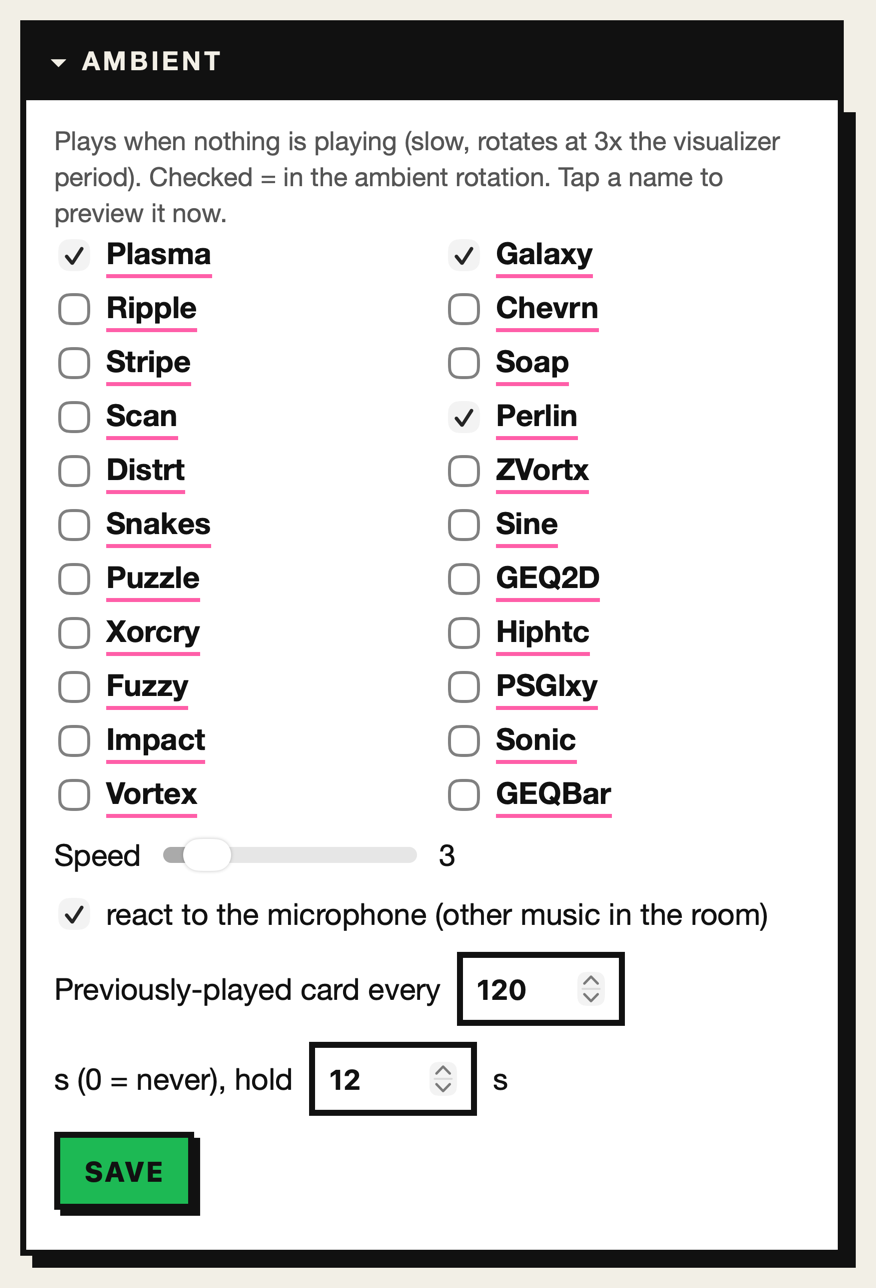
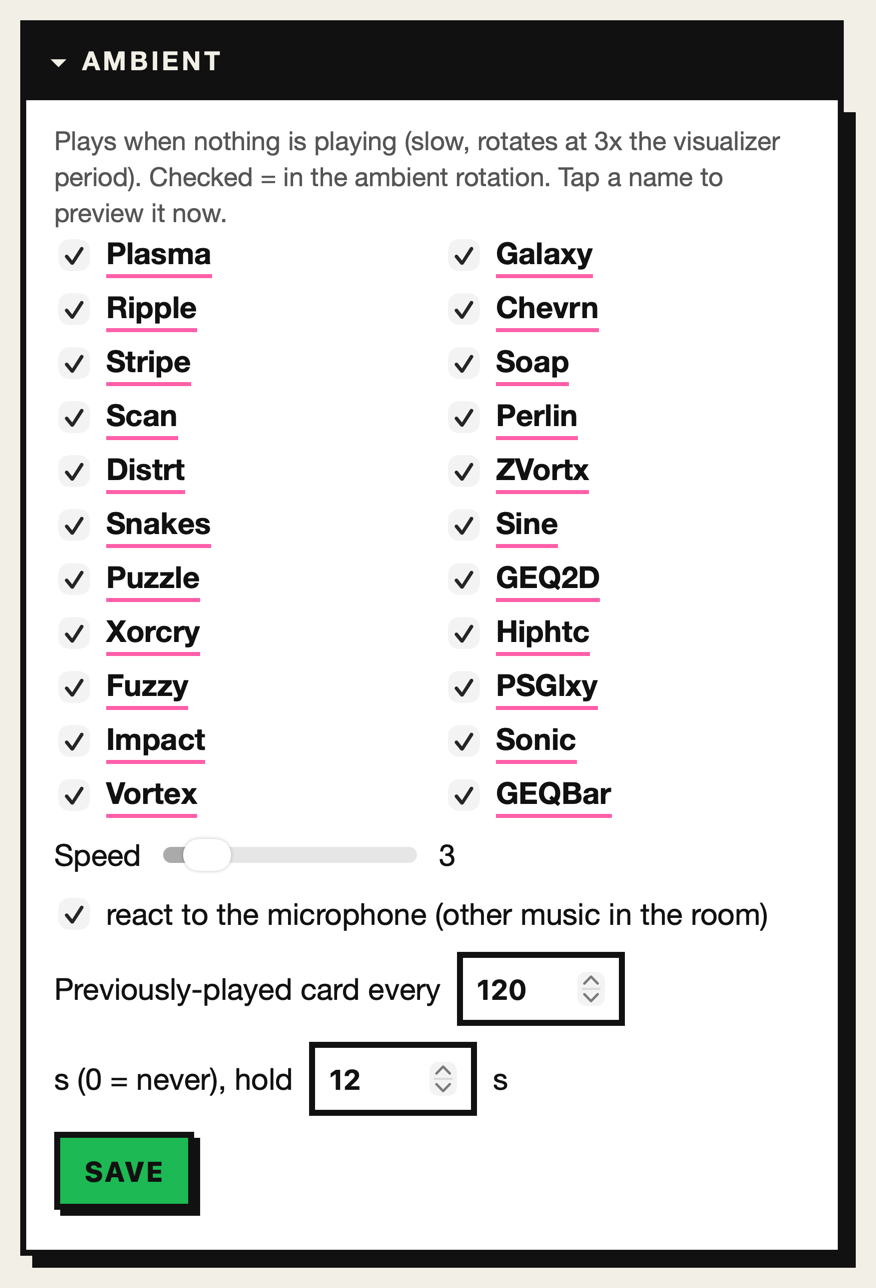
vizSpot controls guide: new defaults, all effects on, kaleidoscope mirror 4-way
Visualizer and ambient rows now say all 22 effects are checked on a new
board, the kaleidoscope defaults to mirror 4-way, and the two screenshots
are regenerated to match.

Changed region(s): [[0.0616, 0.2174, 0.1233, 0.6522], [0.4932, 0.3416, 0.5548, 0.6522], [0.4932, 0.2174, 0.5548, 0.3106]]

diff --git a/client/src/pages/VizSpotControls.tsx b/client/src/pages/VizSpotControls.tsx
@@ -54,8 +54,7 @@ const EFFECTS = [
   "Distrt", "ZVortx", "Snakes", "Sine", "Puzzle", "GEQ2D", "Xorcry", "Hiphtc",
   "Fuzzy", "PSGlxy", "Impact", "Sonic", "Vortex", "GEQBar",
 ];
-const VIZ_DEFAULT = ["Plasma", "Ripple", "Perlin", "Hiphtc", "GEQ2D", "Impact", "Vortex", "GEQBar"];
-const AMB_DEFAULT = ["Plasma", "Galaxy", "Perlin"];
+// Every effect is in both rotations on a new board (vizSpot settings.cpp).
 const PALETTES = [
   "Rainbow", "Analogous", "Electric", "Sunset", "Heat", "Red Tide", "Ember", "Tertiary",
   "Garnet", "Retro", "Temperature", "Clown", "Drywet", "Toxy Reaf", "Hult", "Yelblu Hot",
@@ -259,14 +258,14 @@ const cards: Card[] = [
         c: "Effect checkboxes",
         show: true,
         d: "Checked effects take turns. Tap a name to jump straight to it, checked or not.",
-        v: "8 of 22 checked",
+        v: "all 22 checked when new",
         how: "live",
         extra: {
           label: "see all 22 effects",
           body: (
             <>
               <p className="mb-2 text-xs text-muted-foreground">Green = checked when new.</p>
-              <Chips items={EFFECTS} marked={VIZ_DEFAULT} />
+              <Chips items={EFFECTS} marked={EFFECTS} />
             </>
           ),
         },
@@ -307,7 +306,7 @@ const cards: Card[] = [
         c: "Kaleidoscope",
         s: "Mirror or rotate the picture",
         d: "off, mirror left/right, mirror top/bottom, mirror 4-way, 6-fold rotation, 8-fold rotation.",
-        v: "default off",
+        v: "default mirror 4-way",
         how: "live",
       },
       { c: "Blend", s: "How strong the mirror is", d: "How strongly the mirrored image covers the original. 0% is the same as off.", v: "0–100% · default 100%", how: "live" },
@@ -391,9 +390,9 @@ const cards: Card[] = [
         c: "Effect checkboxes",
         s: "Checked effects take turns",
         d: "Checked effects take turns in ambient. Tap a name to jump to it.",
-        v: "3 of 22 checked",
+        v: "all 22 checked when new",
         how: "live",
-        extra: { label: "Checked when new (any of the 22 can join)", body: <Chips items={AMB_DEFAULT} marked={AMB_DEFAULT} /> },
+        extra: { label: "All 22 are checked when new", body: <Chips items={EFFECTS} marked={EFFECTS} /> },
       },
       { c: "Speed", s: "How fast patterns move", d: "How fast ambient patterns move. Slow is the point.", v: "1–20 · default 3", how: "live" },
       {
